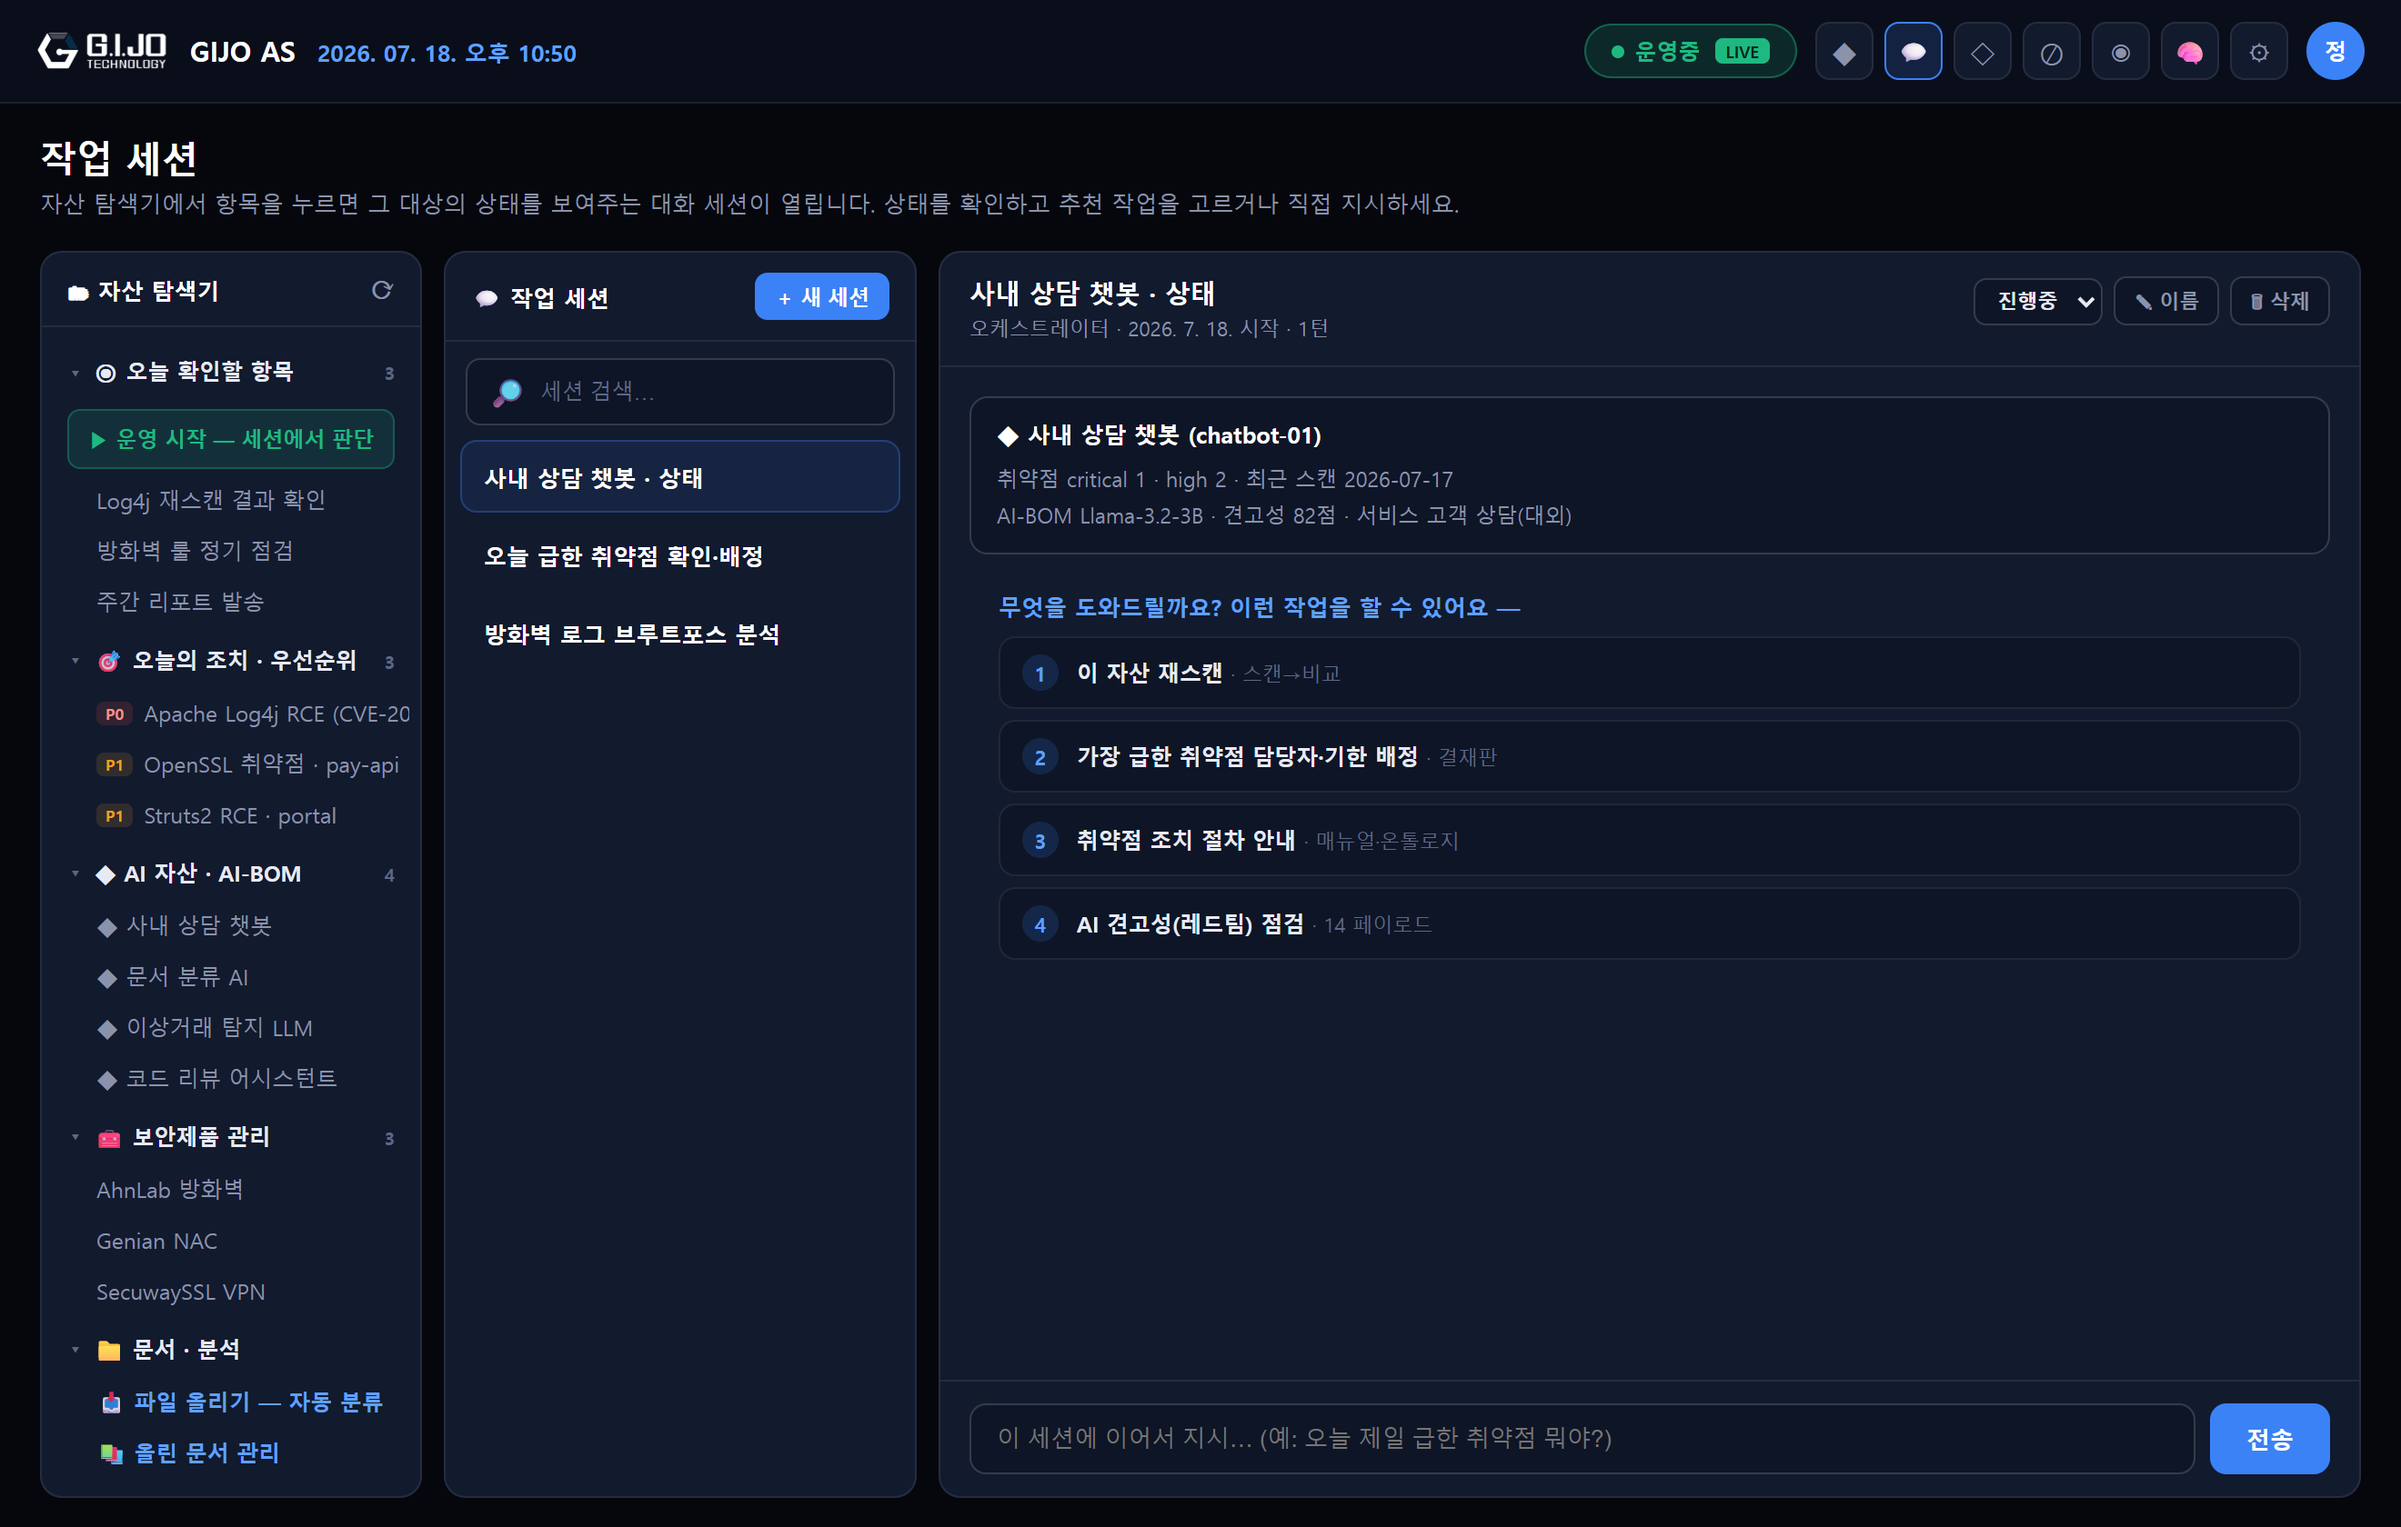
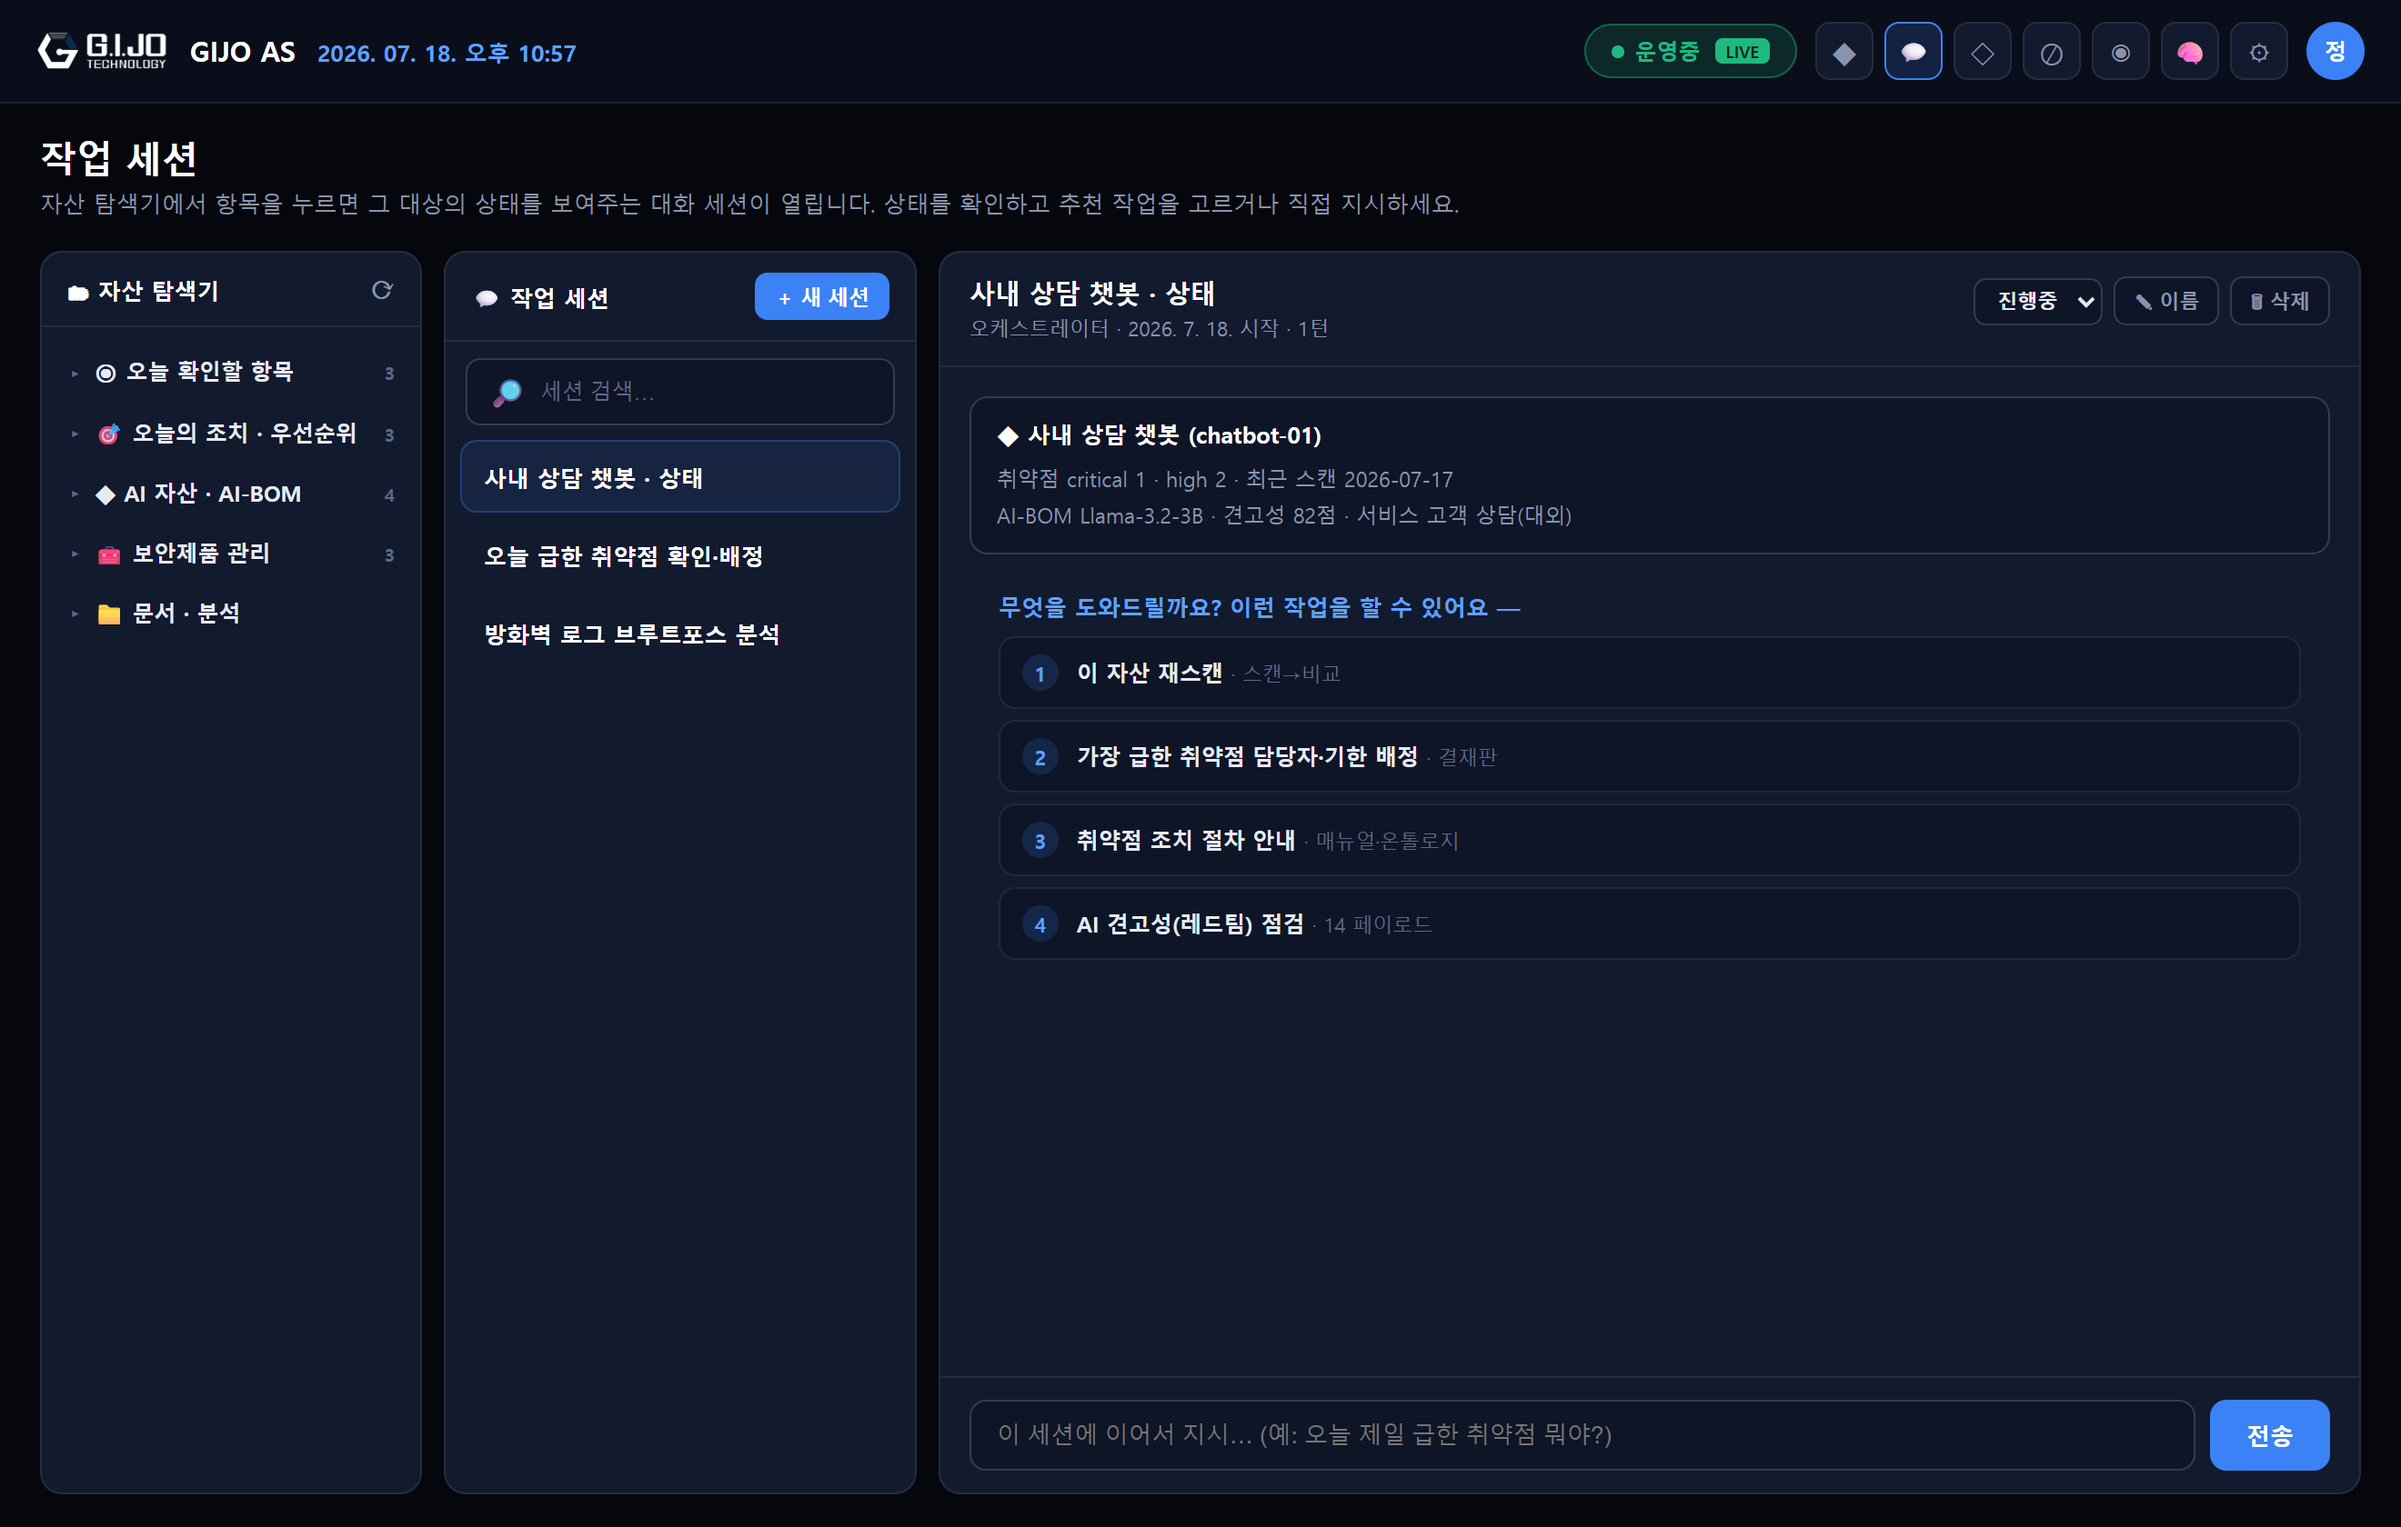
대시보드 정리: 콘솔 넓게보기(⛶)·이름/지시대상 제거·탐색기 기본 접힘
1) 콘솔 넓게 보기 — 실시간 활동 헤더에 ⛶ 토글. 누르면 좌우 패널 숨겨 중앙 콘솔이 전체 폭으로 확장(다시 누르면 복원)
2) "보안 지휘 콘솔" 캡션·대화 독의 "Security Orchestrator 지시 대상"(dockWho) 제거. selectAgent는 dockWho 없을 때 가드
3) session-explorer 5구획 기본 접힘 — 헤더 클릭 시 하위 항목 펼침(처음부터 펼치지 않음)
- 실 렌더로 3항목·확대 모드·JS 오류 0 확인

diff --git a/client/src/renderer/pages/dashboard.html b/client/src/renderer/pages/dashboard.html
@@ -36,6 +36,11 @@
   .avatar-btn{width:32px;height:32px;border-radius:50%;background:var(--blue);color:#fff;display:flex;align-items:center;justify-content:center;font-size:12px;font-weight:800;}
 
   .body-grid{display:grid;grid-template-columns:220px 1fr 228px;min-height:640px;}
+  /* 콘솔 넓게 보기(⛶) — 좌우 패널을 숨겨 중앙 콘솔이 전체 폭으로 늘어난다. */
+  .body-grid.focus{grid-template-columns:1fr;}
+  .body-grid.focus .explorer,.body-grid.focus .dash-sessions{display:none;}
+  .cl-expand{font-size:14px;color:var(--muted);cursor:pointer;line-height:1;}
+  .cl-expand:hover{color:var(--blue-light);}
   .explorer{padding:18px 12px;border-right:1px solid var(--border);}
   /* 작업 세션 열 — 이력 관리용. 주 작업은 실시간 활동에서 하므로 오른쪽 끝(order:2)으로 뺀다. */
   .dash-sessions{order:2;border-left:1px solid var(--border);display:flex;flex-direction:column;min-height:0;}
@@ -405,13 +410,15 @@
 
     <div class="center-stage">
 
-      <div class="console-caption" id="consoleCaption">보안 지휘 콘솔 — 팀원 카드를 클릭해 지시 대상을 고르고, 아래 대화 독에서 지시하세요.</div>
       <div class="team-grid" id="teamGrid"><div style="grid-column:1/-1;text-align:center;color:var(--muted);font-size:12px">팀원 불러오는 중...</div></div>
       <!-- 실시간 에이전트 협업 — 보안 콘솔 아래. 세션·에이전트 활동이 흐른다. -->
       <div class="collab-live" id="collabLive">
         <div class="cl-head">
           <span class="cl-title">📡 실시간 활동</span>
-          <span class="cl-status" id="clStatus"><span class="cl-dot"></span>대기 중</span>
+          <div style="display:flex;align-items:center;gap:12px">
+            <span class="cl-status" id="clStatus"><span class="cl-dot"></span>대기 중</span>
+            <span class="cl-expand" id="clExpand" title="콘솔 넓게 보기 (좌우 패널 숨김/복원)">⛶</span>
+          </div>
         </div>
         <div class="cl-rows" id="clRows"><div class="cl-empty">지시하면 여기서 실시간으로 흐릅니다.</div></div>
       </div>
@@ -424,7 +431,6 @@
         </div>
       </div>
       <div class="agent-dock" id="agentDock">
-        <div class="dock-who" id="dockWho"><div class="dw-i">🧭</div><div><b>Security Orchestrator</b><br><span>지시 대상</span></div></div>
         <input id="chatInput" placeholder="지시를 입력하세요… 예: fraud-detect-llm 전체 재스캔하고 리포트까지">
         <button class="dock-send" id="dockSend">전송</button>
         <button class="dock-all" id="dockAll">◉ 전체 지시</button>
@@ -1239,9 +1245,12 @@
     currentTarget = id;
     teamGrid.querySelectorAll(".tcard").forEach((c) => c.classList.toggle("sel", c.dataset.agent === id));
     const a = agentsById[id];
-    const icon = AGENT_ICON[id] || "◆";
-    dockWho.innerHTML = `<div class="dw-i">${icon}</div><div><b>${a ? escT(a.name) : escT(id)}</b><br><span>지시 대상</span></div>`;
-    chatInput.placeholder = a ? `${a.name}에게 지시…` : "지시를 입력하세요…";
+    if (dockWho) { // 지시 대상 표시(현재 대시보드에선 제거됨 — 존재할 때만 갱신)
+      const icon = AGENT_ICON[id] || "◆";
+      dockWho.innerHTML = `<div class="dw-i">${icon}</div><div><b>${a ? escT(a.name) : escT(id)}</b><br><span>지시 대상</span></div>`;
+    }
+    // 세션에 묶여 있지 않을 때만 placeholder를 대상 안내로 덮는다(세션 이어가기 안내 보존).
+    if (!dashCurrentSession) chatInput.placeholder = a ? `${a.name}에게 지시…` : "지시를 입력하세요…";
   }
   function markWorking(id) {
     const c = teamGrid.querySelector('.tcard[data-agent="' + id + '"]');
@@ -1465,6 +1474,15 @@
     if (dashNew) dashNew.addEventListener("click", () => { try { localStorage.setItem("gijo:sessions:new", "1"); } catch (e) {} window.gijo.navigateTo("sessions.html"); });
     const dashFull = document.getElementById("dashSessionsFull");
     if (dashFull) dashFull.addEventListener("click", () => window.gijo.navigateTo("sessions.html"));
+
+    // 콘솔 넓게 보기(⛶) — 좌우 패널을 숨겨 중앙 콘솔을 전체 폭으로 늘린다(다시 누르면 복원).
+    const clExpand = document.getElementById("clExpand");
+    if (clExpand) clExpand.addEventListener("click", () => {
+      const bg = document.querySelector(".body-grid");
+      const on = bg.classList.toggle("focus");
+      clExpand.textContent = on ? "🗗" : "⛶";
+      clExpand.title = on ? "원래대로 (좌우 패널 복원)" : "콘솔 넓게 보기 (좌우 패널 숨김/복원)";
+    });
 
     window.gijo.onCollaborationEvent((evt) => {
       appendCollabRow(evt);

diff --git a/client/src/renderer/pages/session-explorer.js b/client/src/renderer/pages/session-explorer.js
@@ -9,7 +9,8 @@
 
 (function () {
   var caches = { assets: [], pri: [], products: [], tasks: [] };
-  var collapsed = {}; // 구획 접기 상태(모듈 수명 동안 유지)
+  // 구획 접기 상태 — 처음엔 모두 접힘(헤더를 눌러야 하위 항목이 펼쳐진다).
+  var collapsed = { today: true, vuln: true, asset: true, product: true, files: true };
 
   function esc(s) { return String(s == null ? "" : s).replace(/&/g, "&amp;").replace(/</g, "&lt;").replace(/>/g, "&gt;"); }
   function priKey(p) { return p.assetId + "|" + p.findingKey; }
